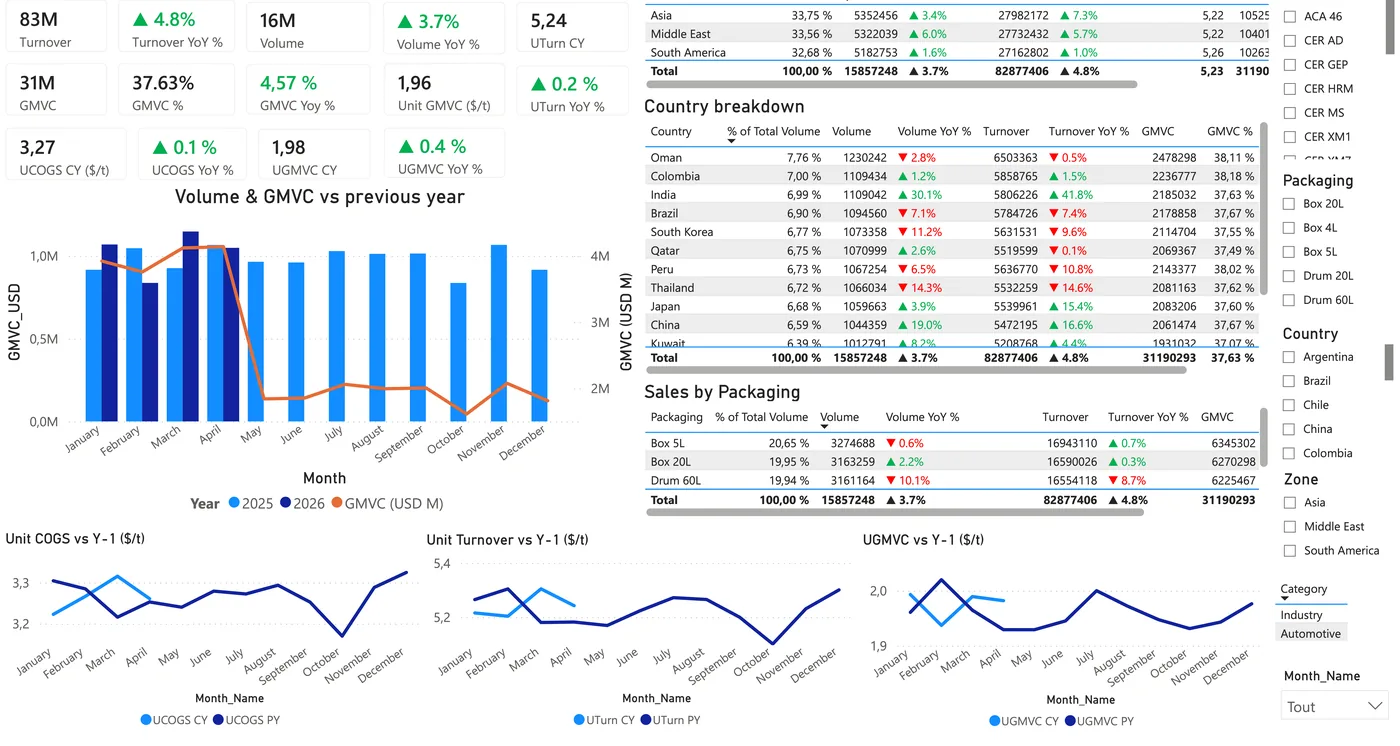
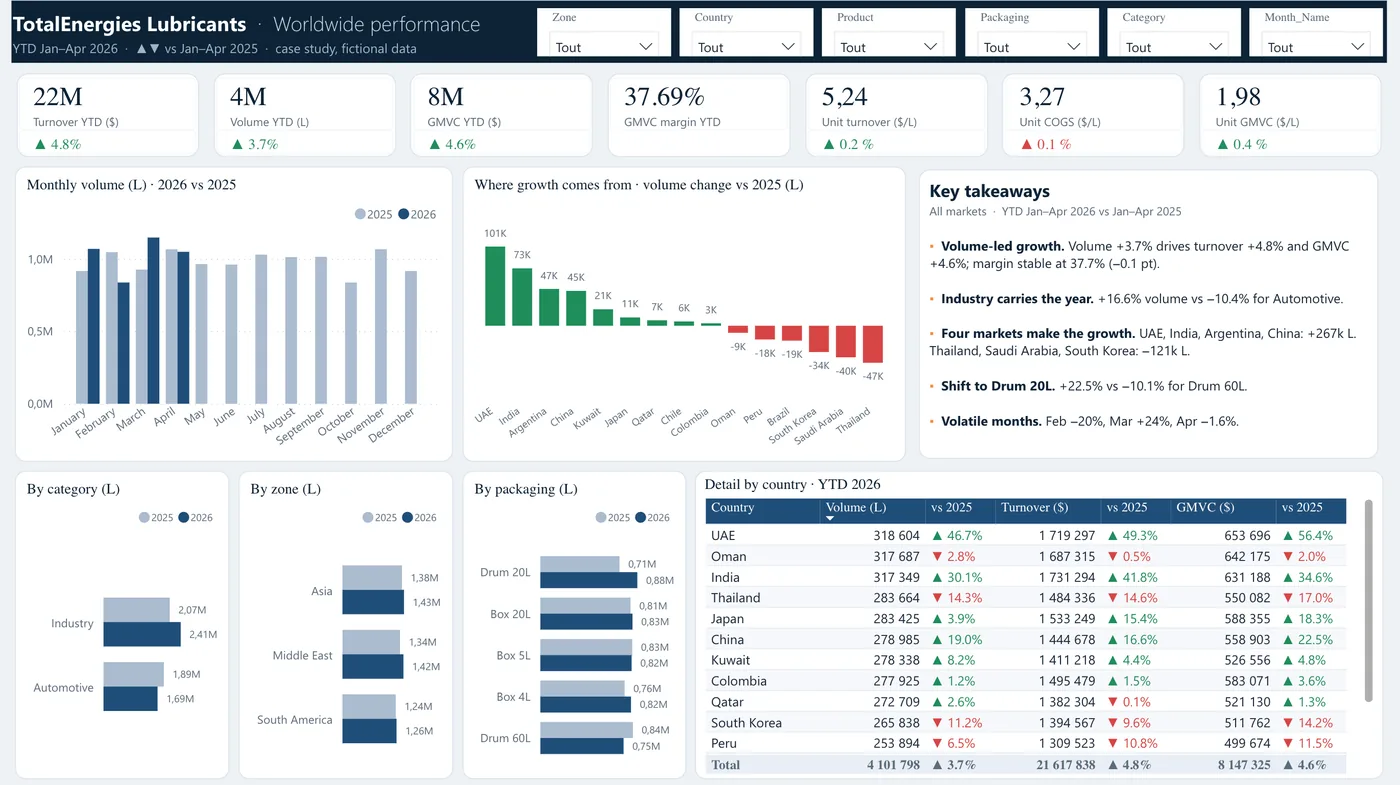
BA v20261008a : nouvel aperçu Power BI

diff --git a/ba/index.html b/ba/index.html
@@ -7,7 +7,7 @@
 <title>Paul Delahousse — business analyst / AMOA</title>
 <meta name="description" content="Business analyst / AMOA à Orléans : recueil des besoins, spécifications fonctionnelles, user stories, recette. Cas pratiques et parcours.">
 <meta name="theme-color" content="#0D2236">
-<link rel="stylesheet" href="ba.css?v=20261005e">
+<link rel="stylesheet" href="ba.css?v=20261008a">
 <link rel="preload" as="image" href="paul.webp">
 <script>document.documentElement.classList.add("js")</script>
 </head>
@@ -110,7 +110,7 @@
       <div class="cas-liste">
 <article class="cas rv" style="--c:#6A4C93"><a class="cas-visuel" href="cas-ba-credit-immobilier.pdf" aria-label="Lire le cas : Refonte du processus de souscription d&#x27;un crédit immobilier"><div class="navigateur"><img src="ba-simulation.webp" width="1200" height="798" loading="lazy" alt="Maquette fonctionnelle : simulateur de capacité d'emprunt"></div><div class="telephone"><img src="ba-suivi-dossier.webp" width="560" height="1180" loading="lazy" alt="Maquette mobile : suivi du dossier en 7 étapes"></div></a><div class="cas-texte"><p class="tags"><span class="tag fort">Analyse fonctionnelle</span><span class="tag">données fictives</span></p><h3>Refonte du processus de souscription d&#x27;un crédit immobilier</h3><p class="probleme"><b>Le problème :</b> un parcours en 7 étapes, papier et ressaisies, 18 jours en moyenne et 40 % de dossiers incomplets.</p><ul class="livrables"><li>Analyse de l&#x27;existant et irritants chiffrés</li><li>Recueil des besoins : entretiens et ateliers simulés</li><li>User stories avec critères d&#x27;acceptation, règles de gestion et maquettes</li><li>Backlog priorisé MoSCoW, roadmap, plan de recette et indicateurs de suivi</li></ul><div class="mesures"><div><strong>54</strong><span>pages de livrables</span></div><div><strong>12</strong><span>user stories</span></div><div><strong>12</strong><span>scénarios de test</span></div><div><strong>10</strong><span>sprints planifiés</span></div></div><p class="bas"><a class="btn btn-petit" href="cas-ba-credit-immobilier.pdf">Lire le cas <svg viewBox="0 0 24 24" fill="none" stroke="currentColor" stroke-width="2" stroke-linecap="round" stroke-linejoin="round" aria-hidden="true"><path d="M5 12h14M13 6l6 6-6 6"/></svg></a><small>PDF, 54 pages</small></p></div></article>
 <article class="cas rv" style="--c:#1F4E79"><a class="cas-visuel" href="cas-crm-salesforce.pdf" aria-label="Lire le cas : Sortir une force de vente terrain d&#x27;Excel avec Salesforce"><div class="navigateur haut"><img src="crm-adoption.webp" width="1200" height="1351" loading="lazy" alt="Tableau de bord d'adoption construit dans Salesforce"></div></a><div class="cas-texte"><p class="tags"><span class="tag fort">CRM</span><span class="tag">données fictives</span></p><h3>Sortir une force de vente terrain d&#x27;Excel avec Salesforce</h3><p class="probleme"><b>Le problème :</b> visites et opérations promotionnelles suivies dans des fichiers Excel ; rien ne signale une opération négociée puis oubliée.</p><ul class="livrables"><li>Modèle de données et qualité des données (doublons, champs de synthèse)</li><li>Automatisations configurées sans code : relances, alertes, contrôles</li><li>Rapports et tableaux de bord d&#x27;adoption et de performance</li><li>Recette par requête et arbitrages documentés</li></ul><div class="mesures"><div><strong>7</strong><span>automatisations</span></div><div><strong>8</strong><span>rapports</span></div><div><strong>2</strong><span>tableaux de bord</span></div><div><strong>8</strong><span>arbitrages écrits</span></div></div><p class="bas"><a class="btn btn-petit" href="cas-crm-salesforce.pdf">Lire le cas <svg viewBox="0 0 24 24" fill="none" stroke="currentColor" stroke-width="2" stroke-linecap="round" stroke-linejoin="round" aria-hidden="true"><path d="M5 12h14M13 6l6 6-6 6"/></svg></a><small>PDF, 27 pages</small></p></div></article>
-<article class="cas rv" style="--c:#C9851B"><a class="cas-visuel" href="../cas-power-bi-lubrifiants.pdf" aria-label="Voir le tableau de bord : Tableau de bord Power BI : ventes de lubrifiants"><div class="navigateur"><img src="powerbi-tableau.webp" width="1400" height="746" loading="lazy" alt="Tableau de bord Power BI : volume et marge par zone"></div></a><div class="cas-texte"><p class="tags"><span class="tag fort">Données</span><span class="tag">données fictives</span></p><h3>Tableau de bord Power BI : ventes de lubrifiants</h3><p class="probleme"><b>La question :</b> où se font le volume et la marge, par zone, emballage et produit, et comment ils évoluent par rapport à l'année précédente.</p><ul class="livrables"><li>Indicateurs clés et évolution sur un an</li><li>Détail par zone, pays et emballage</li><li>Filtres par produit, zone et catégorie</li></ul><div class="mesures trois"><div><strong>14</strong><span>indicateurs clés</span></div><div><strong>3</strong><span>axes d&#x27;analyse</span></div><div><strong>1</strong><span>page de pilotage</span></div></div><p class="bas"><a class="btn btn-petit" href="../cas-power-bi-lubrifiants.pdf">Voir le tableau de bord <svg viewBox="0 0 24 24" fill="none" stroke="currentColor" stroke-width="2" stroke-linecap="round" stroke-linejoin="round" aria-hidden="true"><path d="M5 12h14M13 6l6 6-6 6"/></svg></a><small>PDF, 1 page</small></p></div></article>
+<article class="cas rv" style="--c:#C9851B"><a class="cas-visuel" href="../cas-power-bi-lubrifiants.pdf" aria-label="Voir le tableau de bord : Tableau de bord Power BI : ventes de lubrifiants"><div class="navigateur"><img src="powerbi-tableau.webp" width="1400" height="785" loading="lazy" alt="Tableau de bord Power BI : indicateurs 2026 contre 2025, origine de la croissance par pays et messages clés"></div></a><div class="cas-texte"><p class="tags"><span class="tag fort">Données</span><span class="tag">données fictives</span></p><h3>Tableau de bord Power BI : ventes de lubrifiants</h3><p class="probleme"><b>La question :</b> d'où vient la croissance du volume et de la marge par rapport à l'année précédente, et ce qu'il faut en retenir.</p><ul class="livrables"><li>Indicateurs clés et évolution sur un an</li><li>Origine de la croissance par pays, catégorie, zone et emballage</li><li>Messages clés et filtres par produit, zone et catégorie</li></ul><div class="mesures trois"><div><strong>7</strong><span>indicateurs clés</span></div><div><strong>4</strong><span>axes d&#x27;analyse</span></div><div><strong>1</strong><span>page de pilotage</span></div></div><p class="bas"><a class="btn btn-petit" href="../cas-power-bi-lubrifiants.pdf">Voir le tableau de bord <svg viewBox="0 0 24 24" fill="none" stroke="currentColor" stroke-width="2" stroke-linecap="round" stroke-linejoin="round" aria-hidden="true"><path d="M5 12h14M13 6l6 6-6 6"/></svg></a><small>PDF, 1 page</small></p></div></article>
       </div>
     </div>
   </section>
@@ -192,6 +192,6 @@
 <footer class="pied">
   <div class="wrap"><span>© 2026 Paul Delahousse · Business analyst / AMOA · Orléans</span><span>Aucun cookie, aucun traceur.</span></div>
 </footer>
-<script src="ba.js?v=20261005e"></script>
+<script src="ba.js?v=20261008a"></script>
 </body>
 </html>

diff --git a/ba/ba.js b/ba/ba.js
@@ -1,7 +1,7 @@
 /* Page business analyst (/ba/) : journal des erreurs du cas CRM, animations discrètes, compteur sans cookie. */
 (function () {
   "use strict";
-  var VERSION = "20261005e";
+  var VERSION = "20261008a";
   // Entrées du journal liées au cas CRM Salesforce, retenues pour la page BA
   var IDS = ["A3", "A4", "B2", "B4", "C3"];
   var CODE_GC = "pauldelahousse";
